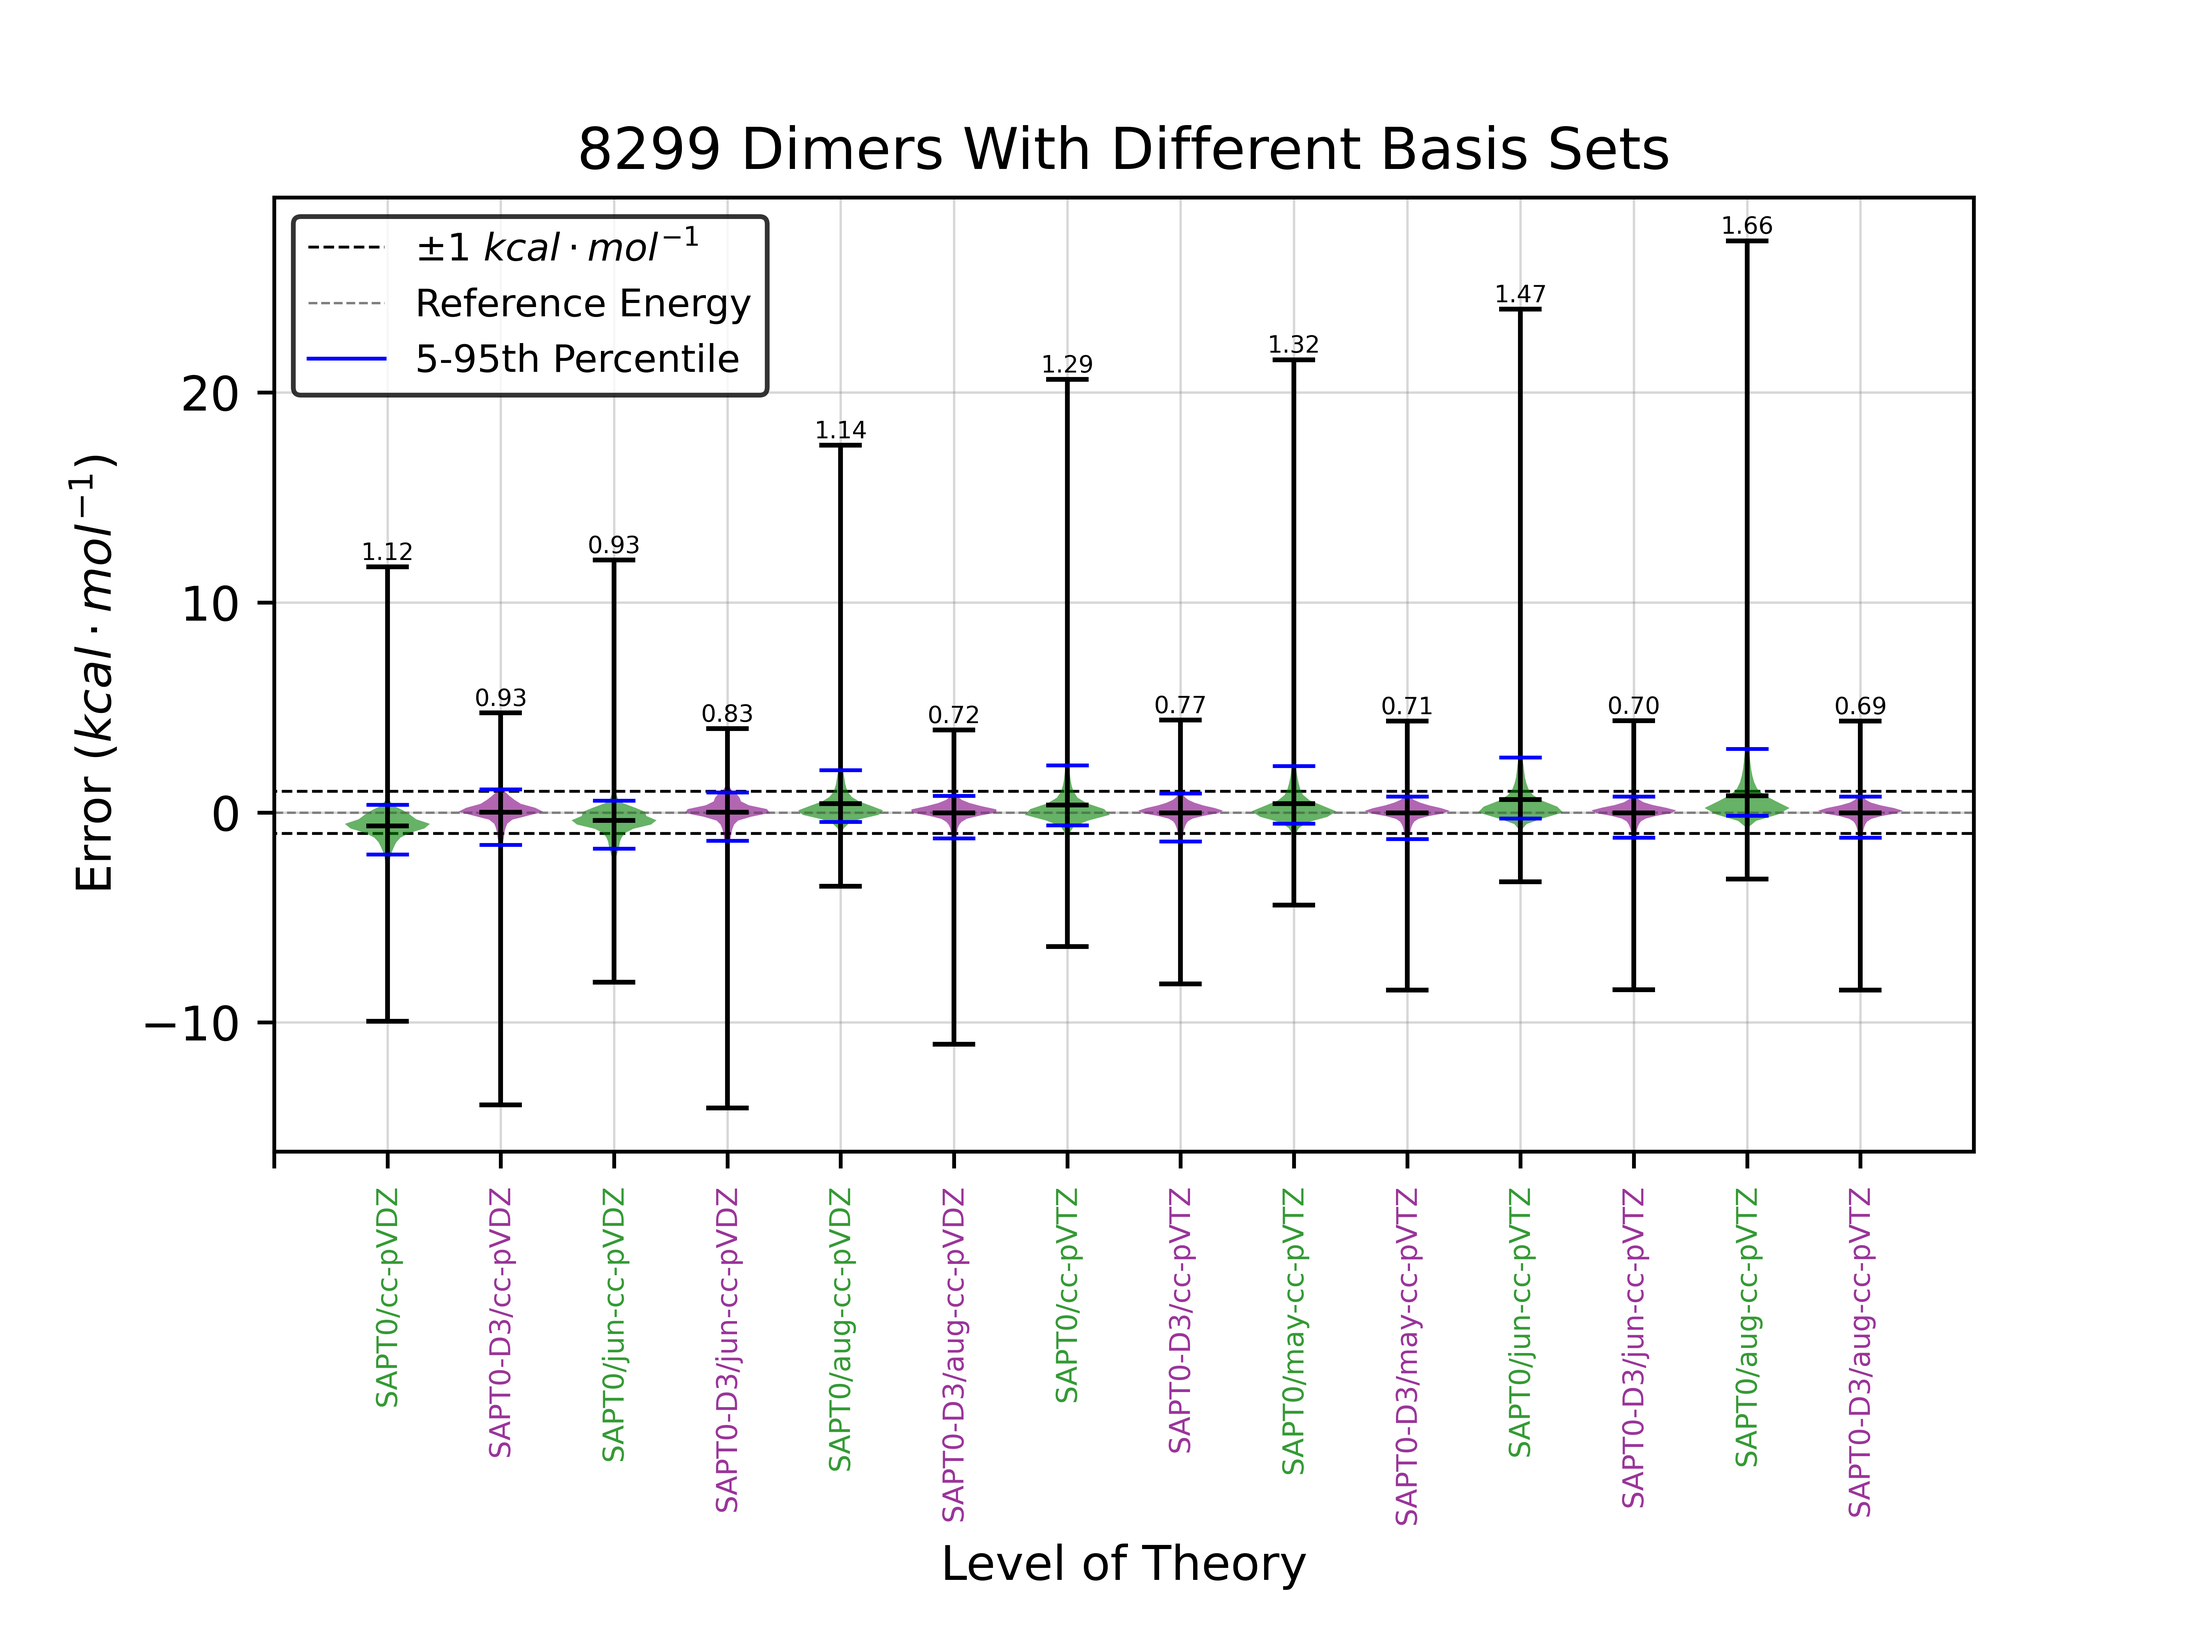
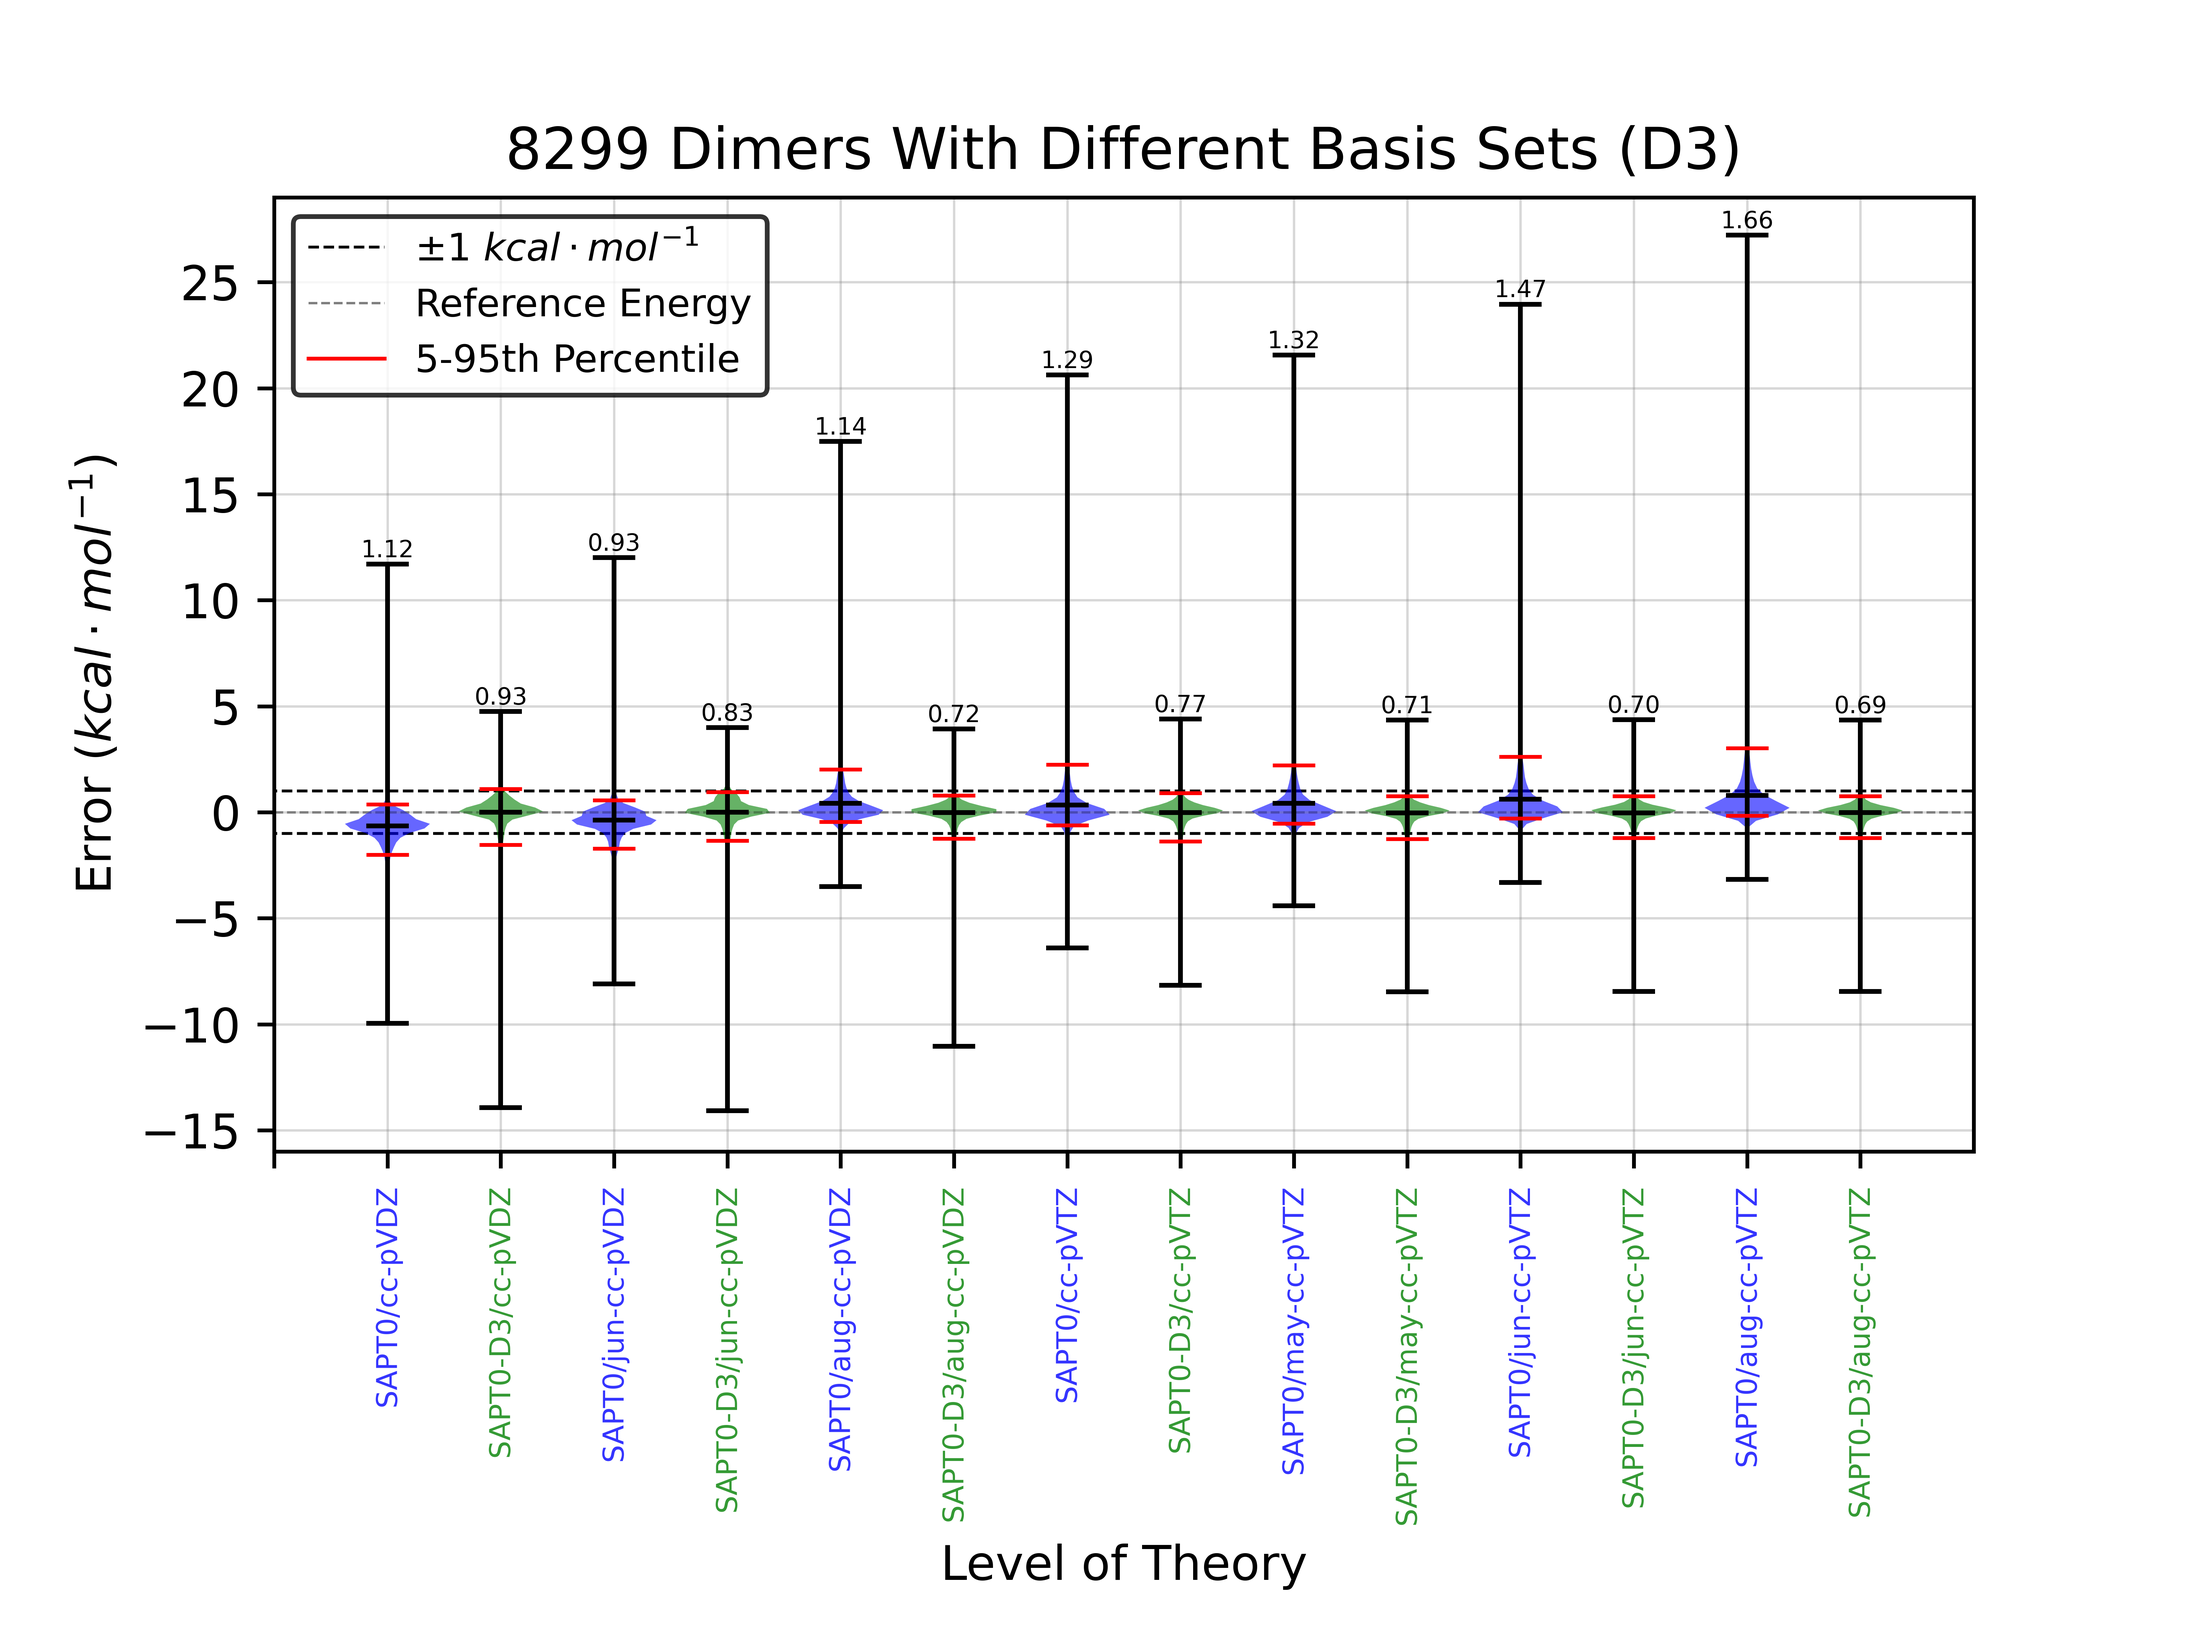
d3/d4 plots

diff --git a/src/plotting.py b/src/plotting.py
@@ -6,6 +6,30 @@ import numpy as np
 import src
 from qm_tools_aw import tools
 
+# colors = [
+#         "blue",
+#         "red",
+#         "purple",
+#         "brown",
+#         "green",
+#         "orange",
+#         "pink",
+#         "grey",
+#         "yellow",
+#         "teal",
+#         "cyan",
+#         "navy",
+#         "magenta",
+#         "lime",
+#         "maroon",
+#         "olive",
+#         "indigo",
+#         "gold",
+#         "orchid",
+#         "salmon",
+#         "tan",
+#         "turquoise",
+#     ]
 
 def compute_D3_D4_values_for_params_for_plotting(
     df: pd.DataFrame,
@@ -330,7 +354,7 @@ def plot_basis_sets_d4(df, build_df=False, df_out: str = "basis"):
             "SAPT0/aug-cc-pVTZ": "SAPT0_atz_3_IE_diff",
             "SAPT0-D4/aug-cc-pVTZ": "SAPT0_atz_3_IE_d4_diff",
         },
-        f"{len(df)} Dimers With Different Basis Sets",
+        f"{len(df)} Dimers With Different Basis Sets (D4)",
         f"basis_set_d4",
         bottom=0.30,
     )
@@ -401,7 +425,7 @@ def plot_basis_sets_d3(df, build_df=False, df_out: str = "basis"):
             "SAPT0/aug-cc-pVTZ": "SAPT0_atz_3_IE_diff",
             "SAPT0-D3/aug-cc-pVTZ": "SAPT0_atz_3_IE_d3_diff",
         },
-        f"{len(df)} Dimers With Different Basis Sets",
+        f"{len(df)} Dimers With Different Basis Sets (D3)",
         f"basis_set_d3",
         bottom=0.30,
     )
@@ -610,6 +634,7 @@ def plot_violin_d3_d4_ALL(
     title_name: str,
     pfn: str,
     bottom: float = 0.4,
+    ylim=[-16, 29]
 ) -> None:
     """ """
     print(f"Plotting {pfn}")
@@ -647,8 +672,7 @@ def plot_violin_d3_d4_ALL(
         vp.set_edgecolor("black")
         vp.set_linewidth(1)
         vp.set_alpha(1)
-    quantile_color = "blue"
-    # quantile_style = (0, (1, 1))
+    quantile_color = "red"
     quantile_style = "-"
     quantile_linewidth = 0.8
     for n, partname in enumerate(["cquantiles"]):
@@ -658,37 +682,10 @@ def plot_violin_d3_d4_ALL(
         vp.set_linestyle(quantile_style)
         vp.set_alpha(1)
 
-
-    colors = [
-        "blue",
-        "red",
-        "purple",
-        "brown",
-        "green",
-        "orange",
-        "pink",
-        "grey",
-        "yellow",
-        "teal",
-        "cyan",
-        "navy",
-        "magenta",
-        "lime",
-        "maroon",
-        "olive",
-        "indigo",
-        "gold",
-        "orchid",
-        "salmon",
-        "tan",
-        "turquoise",
-    ]
-    colors = ["green" if i % 2 == 0 else "purple" for i in range(len(vLabels))]
+    colors = ["blue" if i % 2 == 0 else "green" for i in range(len(vLabels))]
     for n, pc in enumerate(vplot["bodies"], 1):
         pc.set_facecolor(colors[n - 1])
         pc.set_alpha(0.6)
-
-    print(f"{vplot = }")
 
     vLabels.insert(0, "")
     xs = [i for i in range(len(vLabels))]
@@ -729,6 +726,7 @@ def plot_violin_d3_d4_ALL(
     ax.set_xticks(xs)
     plt.setp(ax.set_xticklabels(vLabels), rotation=90, fontsize="6")
     ax.set_xlim((0, len(vLabels)))
+    ax.set_ylim(ylim)
     lg = ax.legend(loc="upper left", edgecolor="black", fontsize="8")
     # lg.get_frame().set_alpha(None)
     lg.get_frame().set_facecolor((1, 1, 1, 0.0))

diff --git a/main.py b/main.py
@@ -481,7 +481,7 @@ def main():
 
     # return
     # src.misc.sensitivity_analysis(df)
-    if False:
+    if True:
         df, _ = df_names(9)
         src.plotting.plot_basis_sets_d4(
             df,
